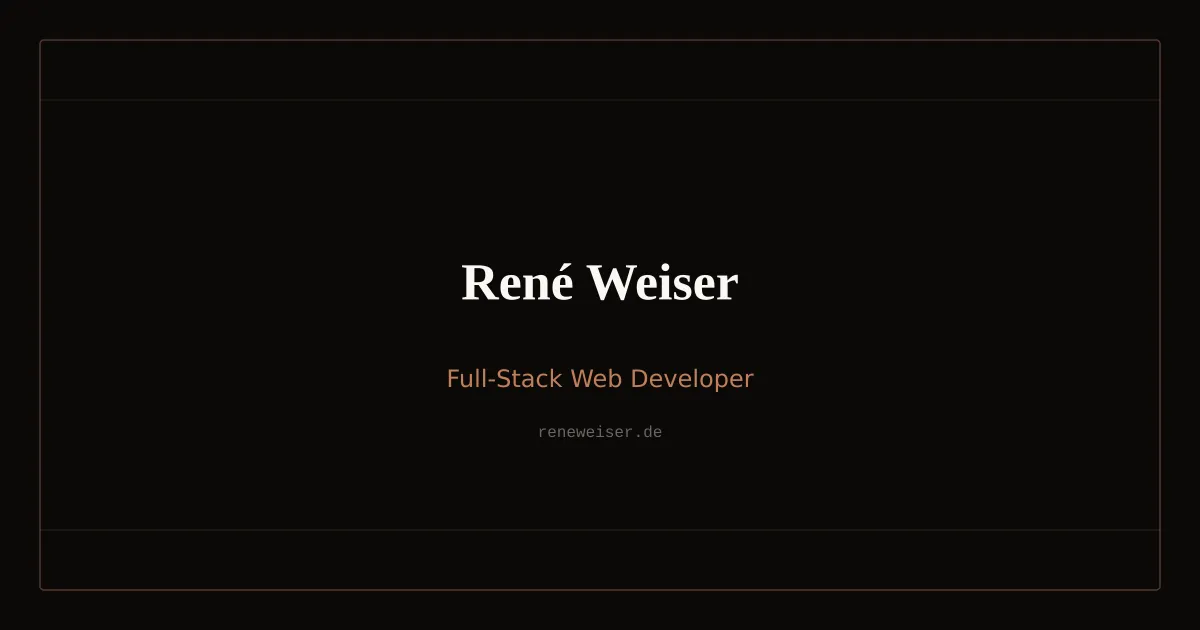
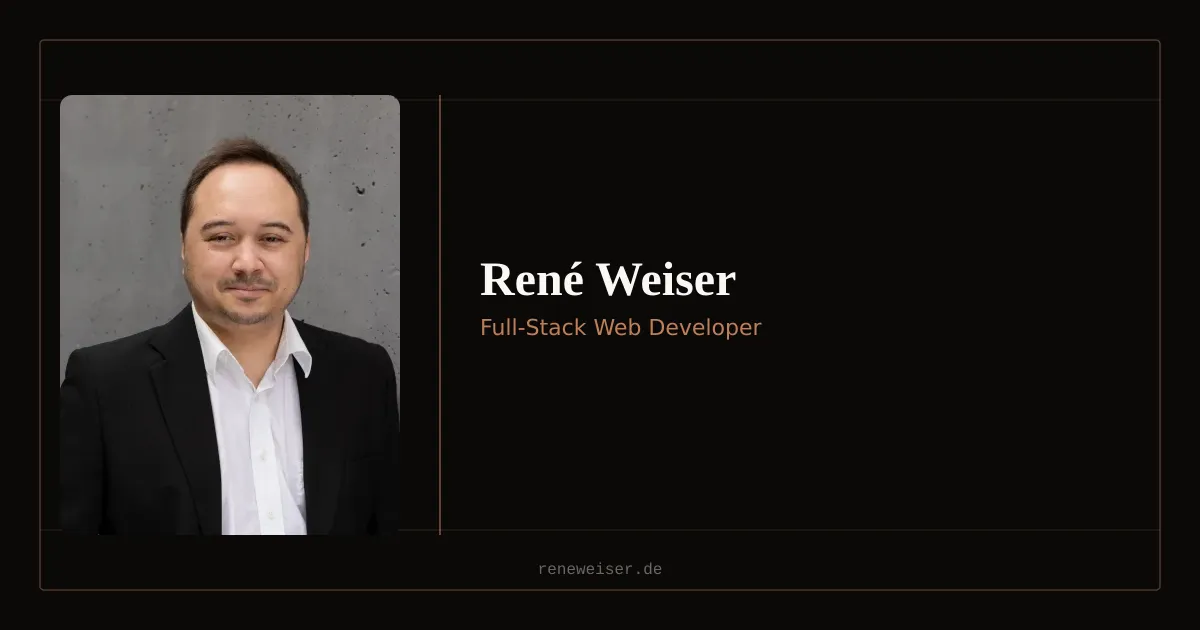
feat(landing): integrate profile photo into about section, blog byline, and OG image
Add professional headshot to the about sidebar, create AuthorByline
component with avatar for blog post footers, and composite the photo
into the default Open Graph image for recognizable social shares.

diff --git a/scripts/generate-og-images.ts b/scripts/generate-og-images.ts
@@ -150,15 +150,74 @@ async function generatePhotoOgImage(
   console.log(`  ✓ ${outputPath} (photo-based, ${sizeKB} KB)`);
 }
 
-// --- Generate default OG image ---
+// --- Generate default OG image (with profile photo) ---
 console.log("Generating OG images...\n");
 
-const defaultSvg = buildSvg({
-  title: "René Weiser",
-  subtitle: "Full-Stack Web Developer",
-  footer: "reneweiser.de",
-});
-await generateImage(defaultSvg, "static/og-default.webp");
+async function generateDefaultOgWithPhoto(): Promise<void> {
+  const profilePath = "static/profile.webp";
+  if (!existsSync(profilePath)) {
+    // Fallback to text-only if no photo
+    const defaultSvg = buildSvg({
+      title: "René Weiser",
+      subtitle: "Full-Stack Web Developer",
+      footer: "reneweiser.de",
+    });
+    await generateImage(defaultSvg, "static/og-default.webp");
+    return;
+  }
+
+  // Crop and resize profile photo to fit left side
+  const photoWidth = 340;
+  const photoHeight = 440;
+  const photoRadius = 12;
+  const photoX = 60;
+  const photoY = Math.round((HEIGHT - photoHeight) / 2);
+
+  const profileCropped = await sharp(profilePath)
+    .resize(photoWidth, photoHeight, { fit: "cover", position: "attention" })
+    .webp({ quality: 85 })
+    .toBuffer();
+
+  // Round the corners of the profile photo using a mask
+  const roundedMask = Buffer.from(
+    `<svg width="${photoWidth}" height="${photoHeight}">
+      <rect x="0" y="0" width="${photoWidth}" height="${photoHeight}" rx="${photoRadius}" ry="${photoRadius}" fill="white"/>
+    </svg>`,
+  );
+
+  const roundedProfile = await sharp(profileCropped)
+    .composite([{ input: roundedMask, blend: "dest-in" }])
+    .png()
+    .toBuffer();
+
+  // Build the text overlay SVG (right side)
+  const dividerX = photoX + photoWidth + 40;
+  const textX = dividerX + 40;
+  const nameY = Math.round(HEIGHT / 2) - 20;
+  const subtitleY = nameY + 40;
+  const footerY = HEIGHT - 56;
+
+  const overlaySvg = `<svg width="${WIDTH}" height="${HEIGHT}" xmlns="http://www.w3.org/2000/svg">
+  <rect width="100%" height="100%" fill="${INK}"/>
+  <rect x="40" y="40" width="${WIDTH - 80}" height="${HEIGHT - 80}" rx="4" fill="none" stroke="${COPPER}" stroke-width="1.5" opacity="0.4"/>
+  <line x1="40" y1="100" x2="${WIDTH - 40}" y2="100" stroke="${COPPER}" stroke-width="1" opacity="0.2"/>
+  <line x1="40" y1="${HEIGHT - 100}" x2="${WIDTH - 40}" y2="${HEIGHT - 100}" stroke="${COPPER}" stroke-width="1" opacity="0.2"/>
+  <line x1="${dividerX}" y1="${photoY}" x2="${dividerX}" y2="${photoY + photoHeight}" stroke="${COPPER}" stroke-width="2" opacity="0.5"/>
+  <text x="${textX}" y="${nameY}" fill="${PAPER}" font-family="Georgia, 'Times New Roman', serif" font-size="48" font-weight="600">${escapeXml("René Weiser")}</text>
+  <text x="${textX}" y="${subtitleY}" fill="${COPPER}" font-family="'Segoe UI', system-ui, sans-serif" font-size="22">${escapeXml("Full-Stack Web Developer")}</text>
+  <text x="${Math.round(WIDTH / 2)}" y="${footerY}" text-anchor="middle" fill="${INK_SOFT}" font-family="'Courier New', monospace" font-size="16">${escapeXml("reneweiser.de")}</text>
+</svg>`;
+
+  await sharp(Buffer.from(overlaySvg))
+    .composite([{ input: roundedProfile, top: photoY, left: photoX }])
+    .webp({ quality: 80 })
+    .toFile("static/og-default.webp");
+
+  const sizeKB = (statSync("static/og-default.webp").size / 1024).toFixed(1);
+  console.log(`  ✓ static/og-default.webp (photo composite, ${sizeKB} KB)`);
+}
+
+await generateDefaultOgWithPhoto();
 
 // --- Generate per-post OG images ---
 const blogDir = join(import.meta.dir, "..", "src", "content", "blog");

diff --git a/scripts/optimize-profile-image.ts b/scripts/optimize-profile-image.ts
@@ -1,0 +1,43 @@
+/**
+ * Generates square avatar crops from the profile photo.
+ *
+ * Usage: bun run scripts/optimize-profile-image.ts
+ *
+ * Outputs:
+ *   static/profile-avatar.webp     — 96x96 square, face-centered
+ *   static/profile-avatar@2x.webp  — 192x192 square, face-centered
+ */
+
+import sharp from "sharp";
+import { statSync } from "node:fs";
+
+const SOURCE = "static/profile.webp";
+
+// Face is right-of-center in the source image (2000x1333).
+// Extract a square region centered on the face.
+const FACE_CENTER_X = 1200;
+const FACE_CENTER_Y = 500;
+const CROP_SIZE = 800; // source pixels for the square crop
+
+const left = Math.round(FACE_CENTER_X - CROP_SIZE / 2);
+const top = Math.round(FACE_CENTER_Y - CROP_SIZE / 2);
+
+const variants = [
+  { size: 96, output: "static/profile-avatar.webp" },
+  { size: 192, output: "static/profile-avatar@2x.webp" },
+];
+
+console.log("Generating profile avatars...\n");
+
+for (const { size, output } of variants) {
+  await sharp(SOURCE)
+    .extract({ left, top, width: CROP_SIZE, height: CROP_SIZE })
+    .resize(size, size)
+    .webp({ quality: 80 })
+    .toFile(output);
+
+  const sizeKB = (statSync(output).size / 1024).toFixed(1);
+  console.log(`  ✓ ${output} (${size}x${size}, ${sizeKB} KB)`);
+}
+
+console.log("\nDone!");

diff --git a/src/routes/blog/[slug]/+page.svelte b/src/routes/blog/[slug]/+page.svelte
@@ -1,6 +1,7 @@
 <script lang="ts">
 	import Header from '$lib/components/Header.svelte';
 	import Footer from '$lib/components/Footer.svelte';
+	import AuthorByline from '$lib/components/blog/AuthorByline.svelte';
 	import { siteUrl } from '$lib/config';
 	import { formatDate } from '$lib/utils/blog';
 	import type { PageProps } from './$types';
@@ -23,7 +24,8 @@
 				author: {
 					'@type': 'Person',
 					name: 'René Weiser',
-					url: siteUrl
+					url: siteUrl,
+					image: `${siteUrl}/profile-avatar@2x.webp`
 				},
 				publisher: {
 					'@type': 'Person',
@@ -161,6 +163,10 @@
 
 		<!-- Post Footer -->
 		<footer class="mt-16 border-t border-ink/10 pt-8">
+			<div class="mb-8">
+				<AuthorByline />
+			</div>
+
 			<a
 				href="/blog"
 				class="inline-flex items-center gap-2 font-mono text-sm text-ink-muted transition-colors hover:text-copper"

diff --git a/src/lib/components/About.svelte b/src/lib/components/About.svelte
@@ -36,8 +36,20 @@
 				</p>
 			</div>
 
-			<!-- Sidebar: Trust signals -->
+			<!-- Sidebar: Photo + Trust signals -->
 			<aside class="lg:col-span-5">
+				<!-- Profile photo -->
+				<div class="mb-6">
+					<img
+						src="/profile.webp"
+						alt="René Weiser — Webentwickler und Unternehmer"
+						width="600"
+						height="400"
+						loading="lazy"
+						class="w-full max-w-md mx-auto lg:max-w-none rounded-lg border border-ink/10 object-cover"
+					/>
+				</div>
+
 				<div class="rounded-lg border border-ink/10 bg-paper-muted/30 p-6">
 					<h3 class="mb-4 font-mono text-xs uppercase tracking-wider text-ink-soft">
 						Auf einen Blick

diff --git a/src/lib/components/blog/AuthorByline.svelte b/src/lib/components/blog/AuthorByline.svelte
@@ -1,0 +1,18 @@
+<div class="flex items-center gap-4">
+	<img
+		src="/profile-avatar.webp"
+		srcset="/profile-avatar.webp 96w, /profile-avatar@2x.webp 192w"
+		sizes="48px"
+		alt="René Weiser"
+		width="48"
+		height="48"
+		class="h-12 w-12 rounded-full border border-ink/10 object-cover"
+		loading="lazy"
+	/>
+	<div>
+		<a href="/#ueber-mich" class="font-medium text-ink transition-colors hover:text-copper">
+			René Weiser
+		</a>
+		<p class="font-mono text-xs text-ink-soft">Full-Stack Web Developer</p>
+	</div>
+</div>
